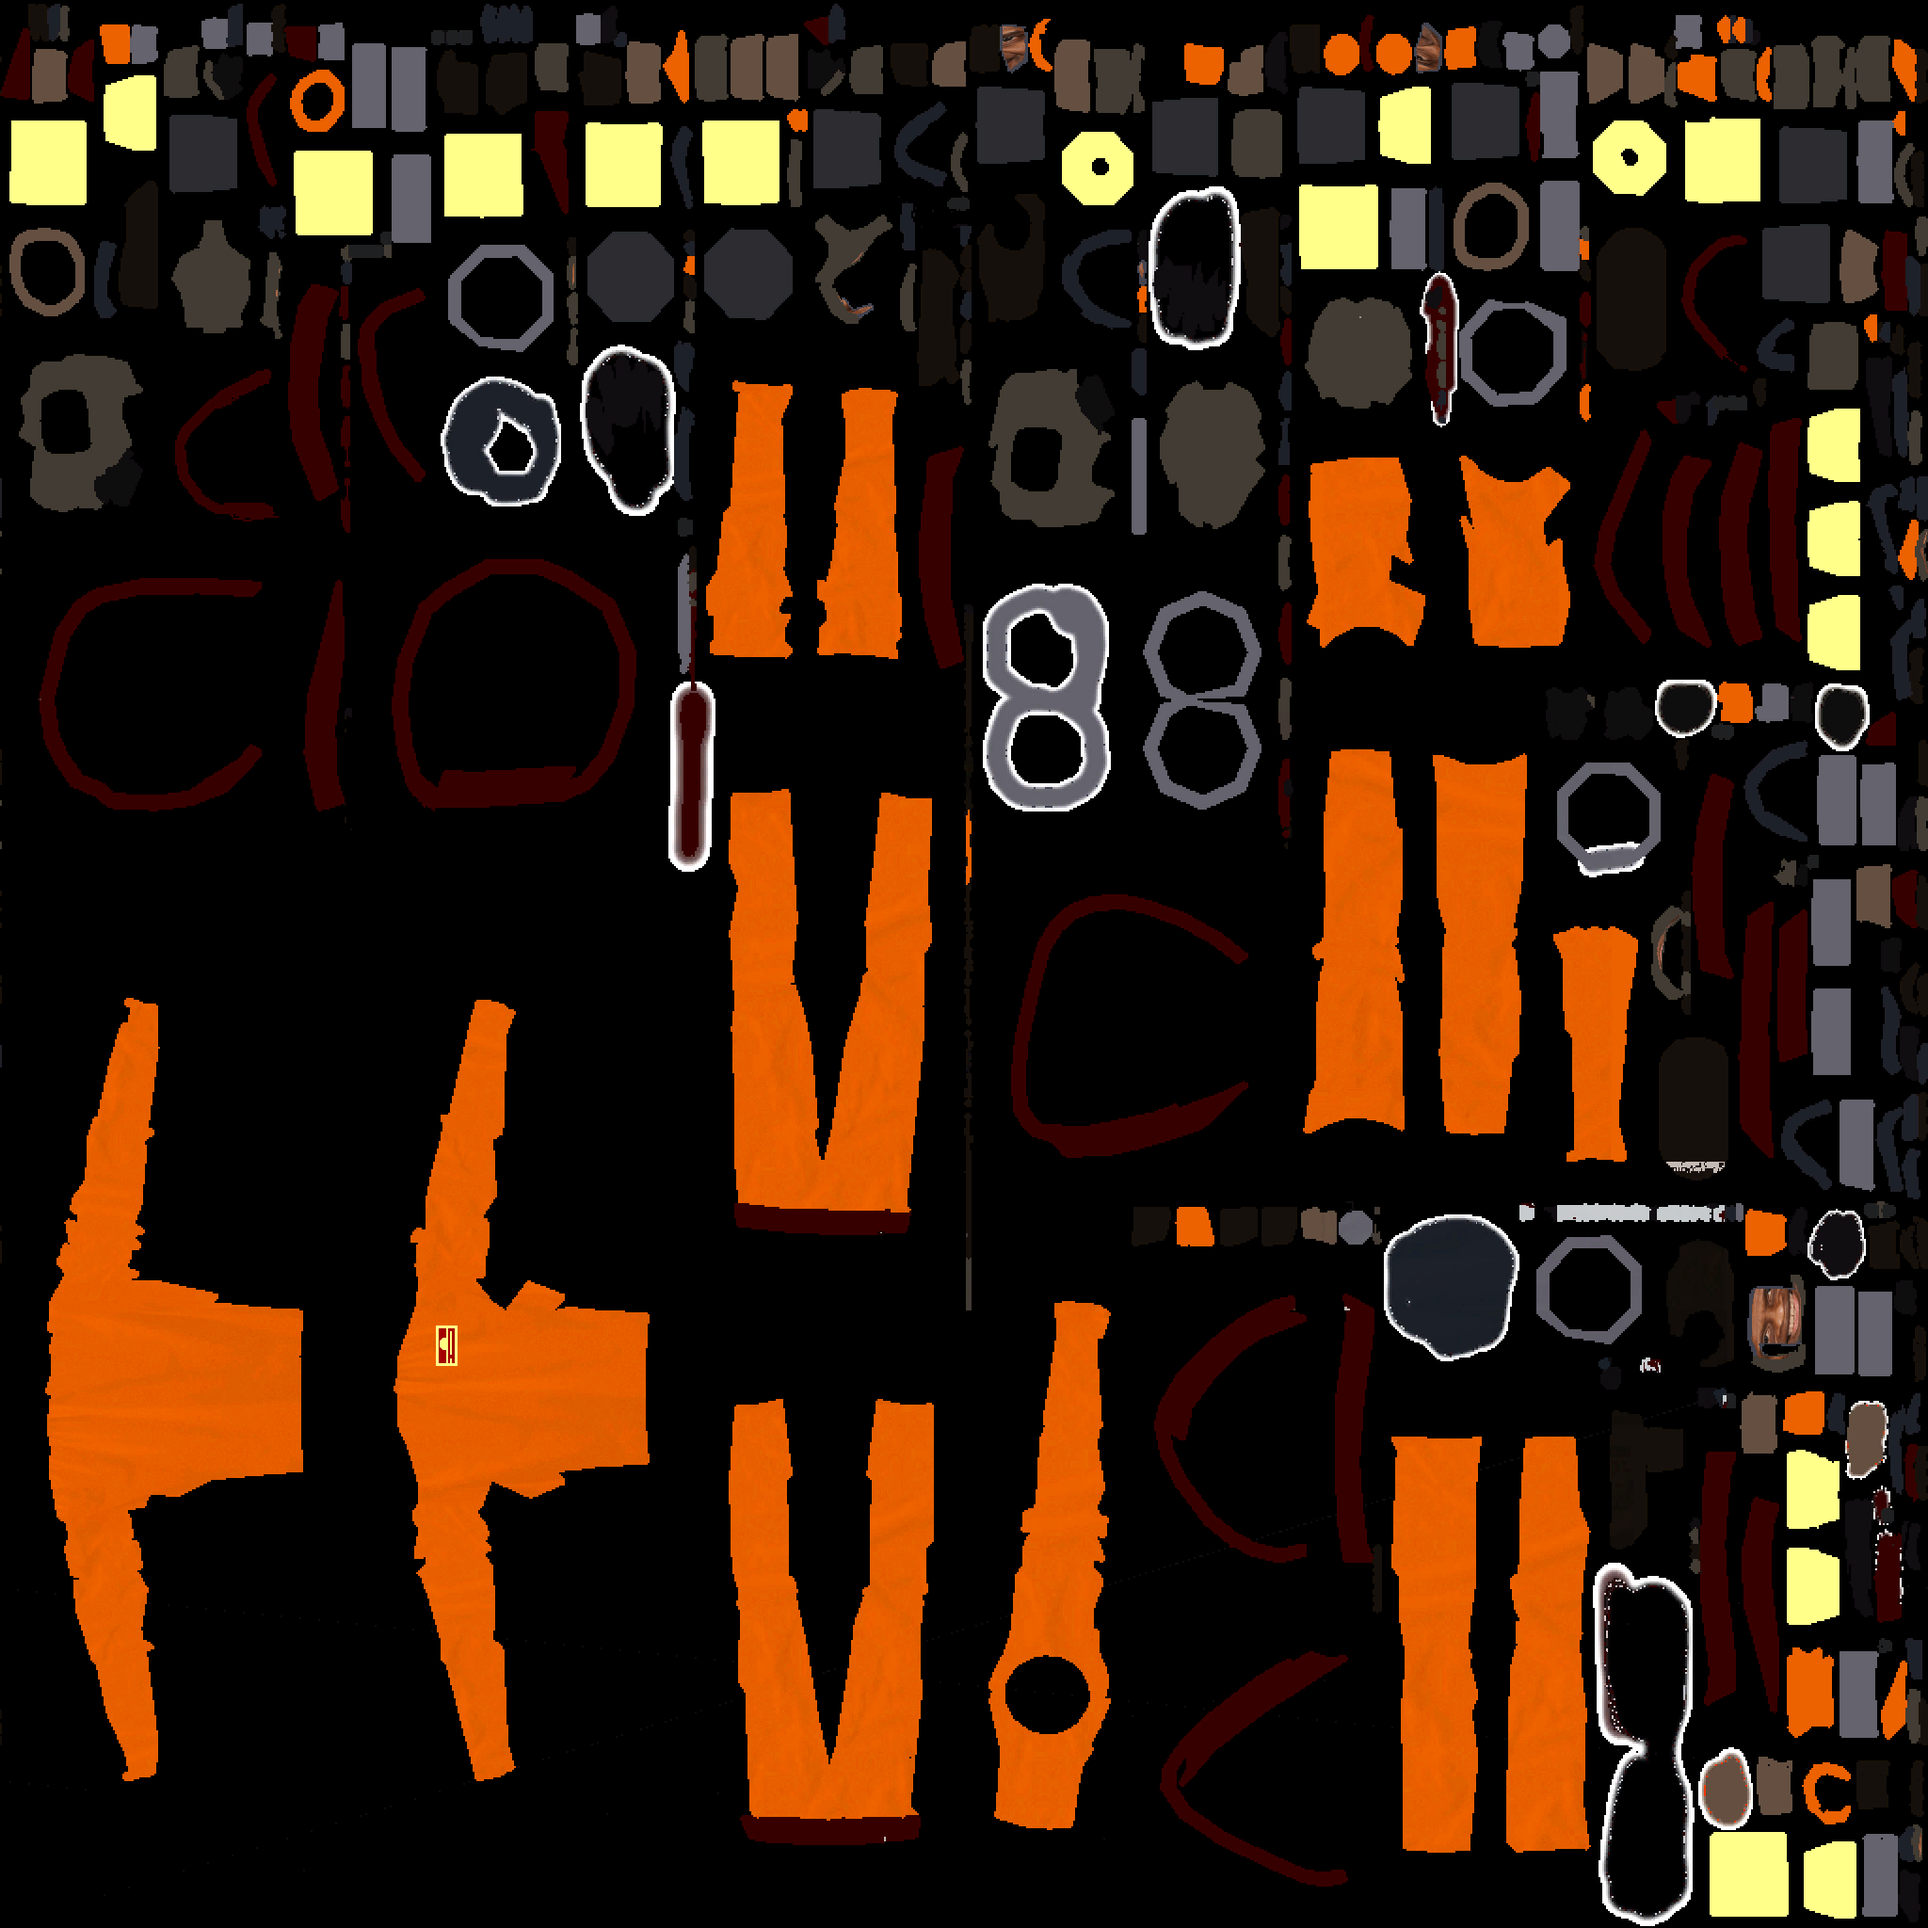
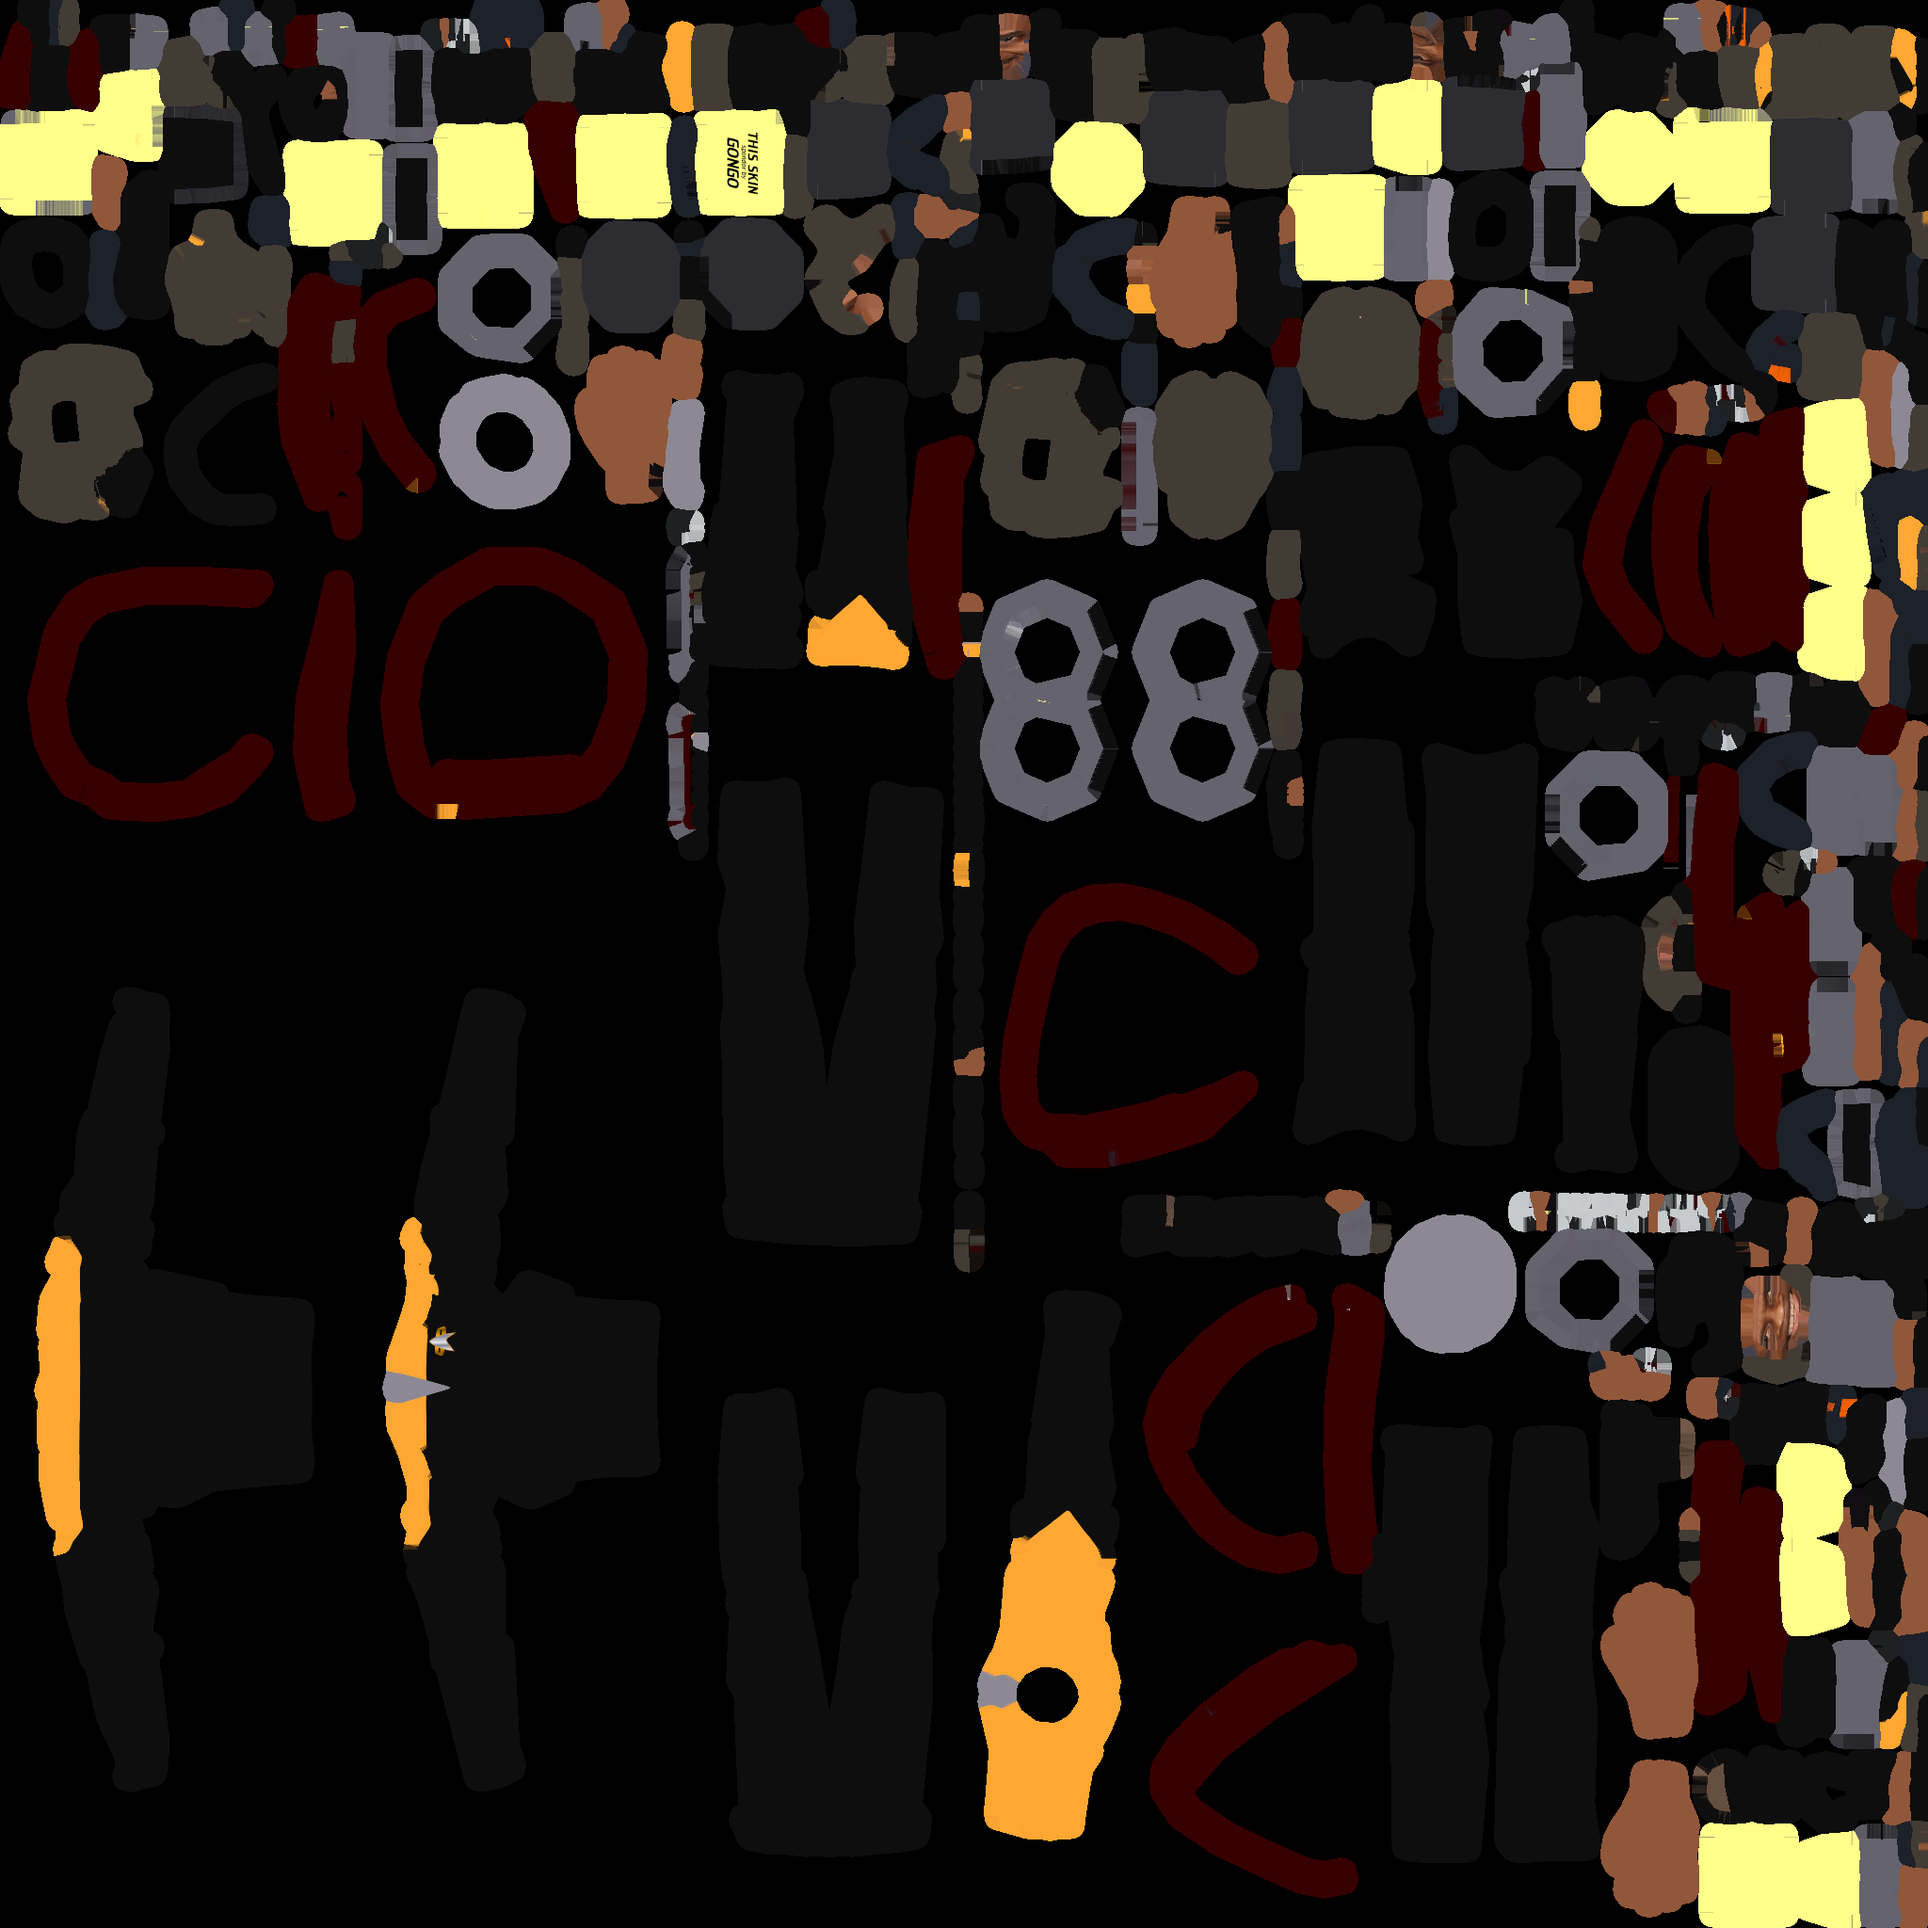
2 new skins + updates
added Cinder and Uni skins and updated  7 others with new body textures

diff --git a/CHANGELOG.md b/CHANGELOG.md
@@ -1,3 +1,16 @@
+# v1.0.3
+Added:
+- Cinder
+- Uni
+Updated:
+- PicBust
+- KUSHANGAZA
+- spenXD
+- dataBruh
+- WARF
+- odoShocked
+- kirkTrip
+
 # v1.0.2
 Added:
 - SadCat
